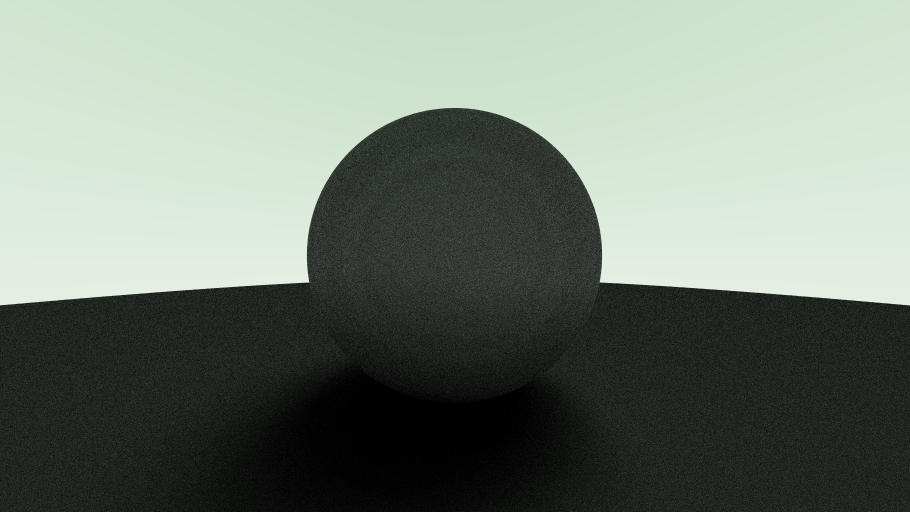
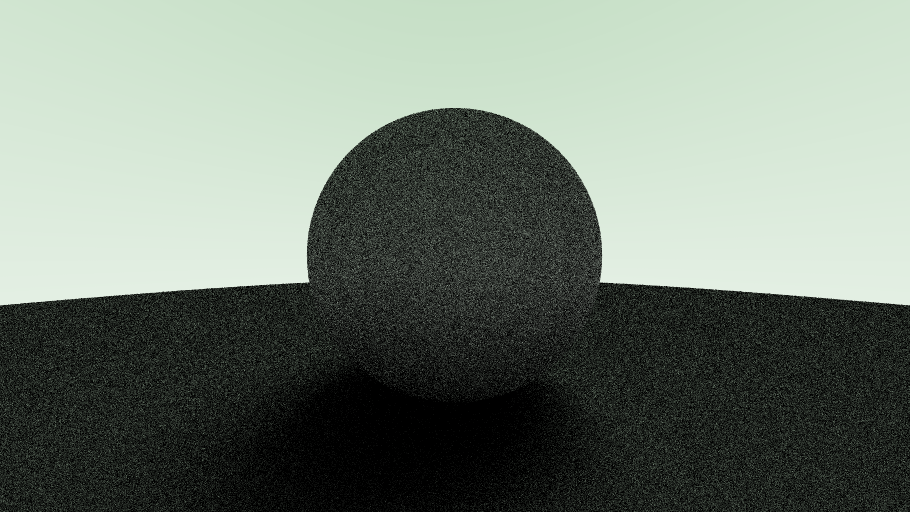
Added set_material function

Changed region(s): [[0.0, 0.2188, 1.0, 1.0]]

diff --git a/src/engine/mesh.rs b/src/engine/mesh.rs
@@ -18,8 +18,14 @@ pub struct Mesh {
 
 impl Mesh {
     pub fn new() -> Self {
-        Self{material : Rc::new(Material::new()), 
+        Self{material : Rc::new(Material::new(MaterialType::Diffuse)), 
             spheres : Vec::new(), triangles : Vec::new()}
+    }
+
+    pub fn set_material(&mut self, material_type : MaterialType) {
+        match material_type {
+            MaterialType::Diffuse =>  self.material = Rc::new(Material::new(MaterialType::Diffuse)),
+        }
     }
 
     pub fn add_sphere(&mut self, sphere : Sphere) {

diff --git a/src/engine/material.rs b/src/engine/material.rs
@@ -6,7 +6,7 @@ use crate::engine::math::vector3::{*};
 use crate::engine::material::diffuse::{*};
 use crate::engine::geometry::traceable::{*};
 
-enum MaterialType {
+pub enum MaterialType {
     Diffuse
 }
 
@@ -15,8 +15,8 @@ pub struct Material {
 }
 
 impl Material {
-    pub fn new() -> Self {
-        Self{material_type : MaterialType::Diffuse}
+    pub fn new(material_type : MaterialType) -> Self {
+        Self{material_type : material_type}
     }
 
     pub fn brdf(&self, ray: Ray, hit_result : &HitResult) -> Vector3 {

diff --git a/src/main.rs b/src/main.rs
@@ -20,8 +20,8 @@ fn main() {
 
     scene.load_debug();
 
-    let render_context = RenderContext{render_target : render_target, scene : scene, spp : 100,
-        max_depth : 50};
+    let render_context = RenderContext{render_target : render_target, scene : scene, spp : 10,
+        max_depth : 5};
 
     let renderer = Renderer{};
 
